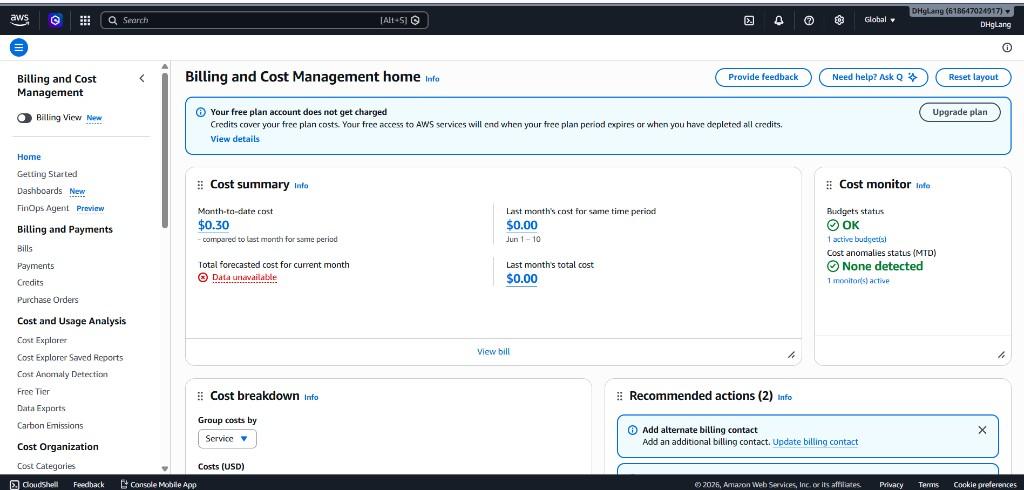
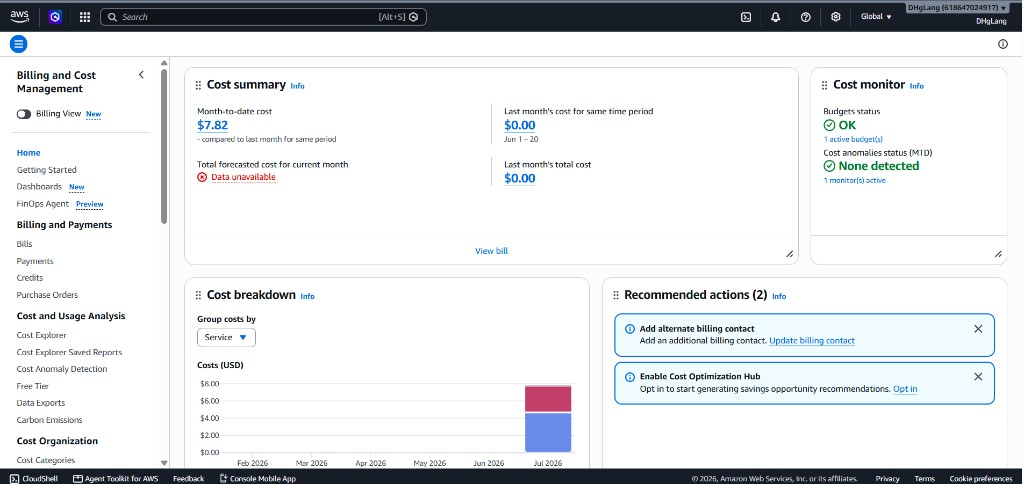
Update 5.6 cost overview screenshot and matching notes.

diff --git a/content/5-Workshop/5.6-Cost/_index.md b/content/5-Workshop/5.6-Cost/_index.md
@@ -8,7 +8,7 @@ pre: " <b> 5.6. </b> "
 
 #### Lab cost overview
 
-After deployment and (optional) sandbox cleanup, this section summarizes **actual cost** in AWS Billing. The lab account uses a **free plan / credits** — the banner states *Your free plan account does not get charged*. Month-to-date stays very low (e.g. **$0.30**).
+After deployment and (optional) sandbox cleanup, this section summarizes **actual cost** in AWS Billing. Month-to-date cost is about **$7.82** (Budgets status OK; no cost anomalies detected).
 
 ![Billing home — cost overview](/images/5-Workshop/5.6-Cost/cost-overview.png)
 

diff --git a/content/5-Workshop/5.6-Cost/_index.vi.md b/content/5-Workshop/5.6-Cost/_index.vi.md
@@ -8,7 +8,7 @@ pre: " <b> 5.6. </b> "
 
 #### Tổng quan chi phí lab
 
-Sau khi triển khai và (tuỳ chọn) dọn sandbox, phần này tổng hợp **chi phí thực tế** trên AWS Billing. Tài khoản lab dùng **free plan / credits** — banner ghi *Your free plan account does not get charged*. Month-to-date rất thấp (ví dụ **$0.30**).
+Sau khi triển khai và (tuỳ chọn) dọn sandbox, phần này tổng hợp **chi phí thực tế** trên AWS Billing. Chi phí month-to-date khoảng **$7.82** (Budgets status OK; không phát hiện cost anomaly).
 
 ![Billing home — tổng quan chi phí](/images/5-Workshop/5.6-Cost/cost-overview.png)
 